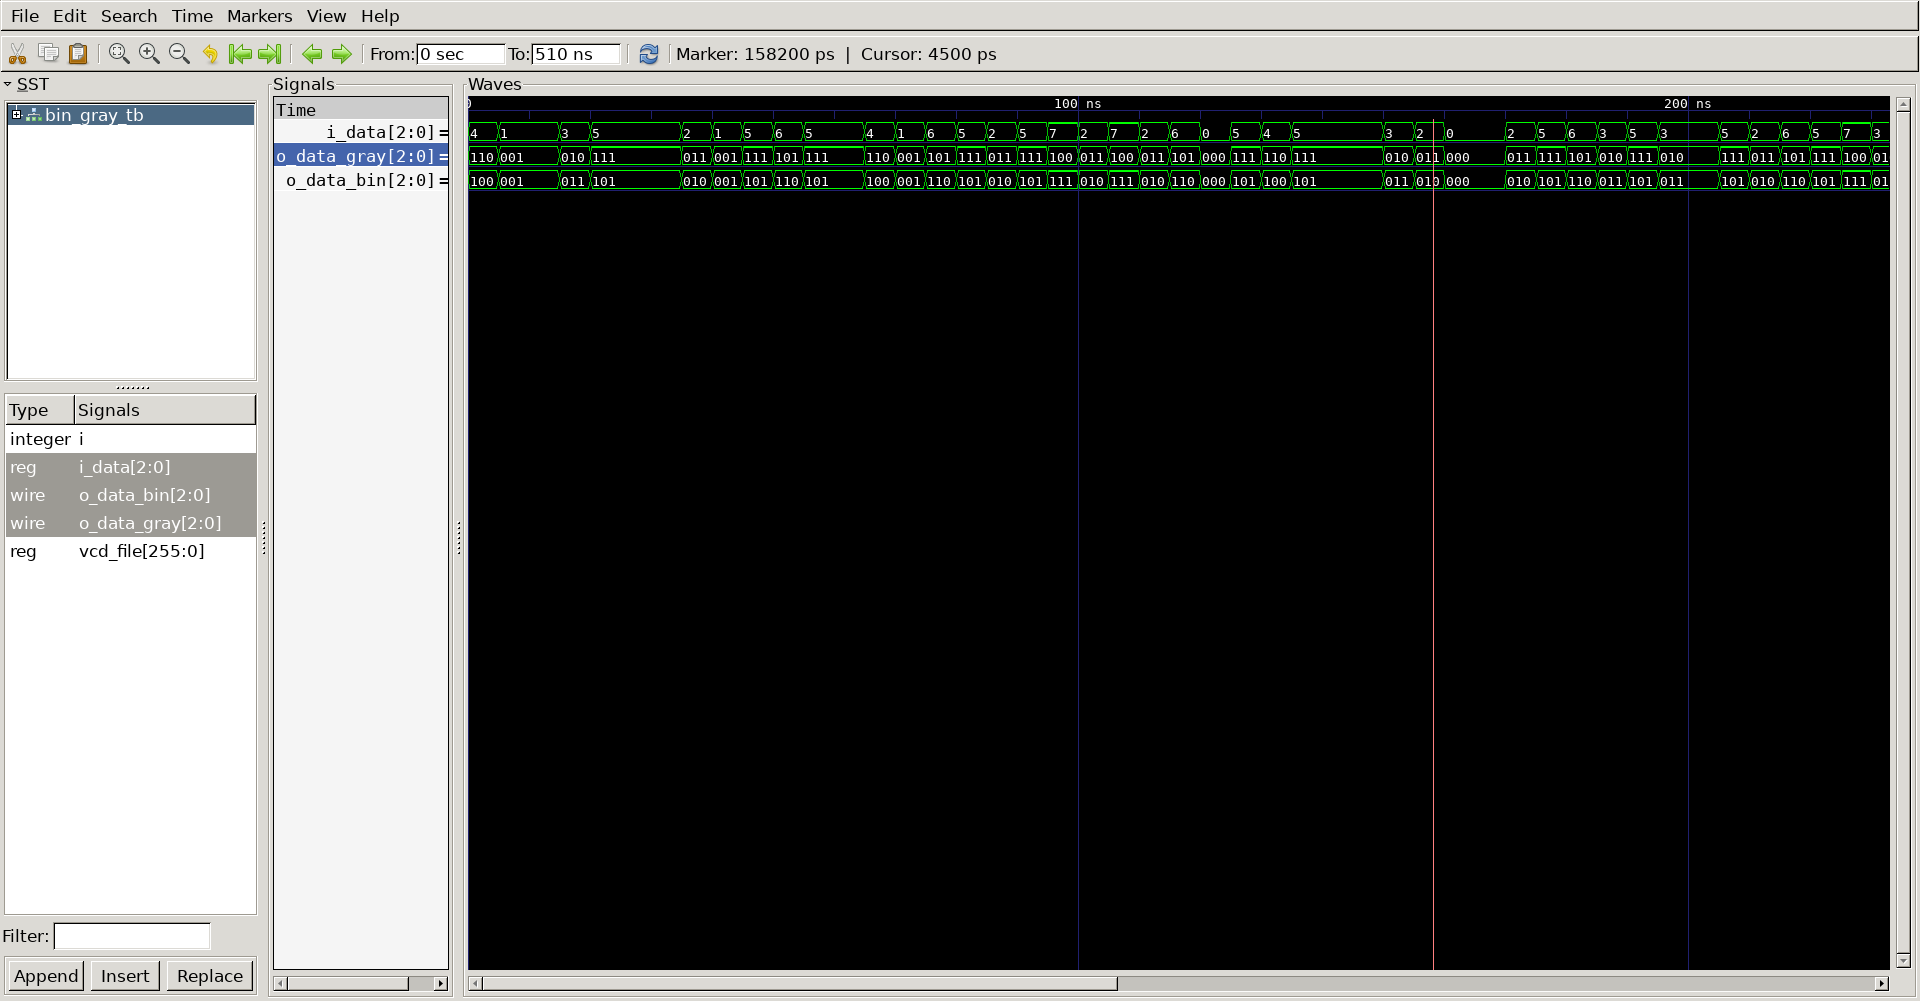
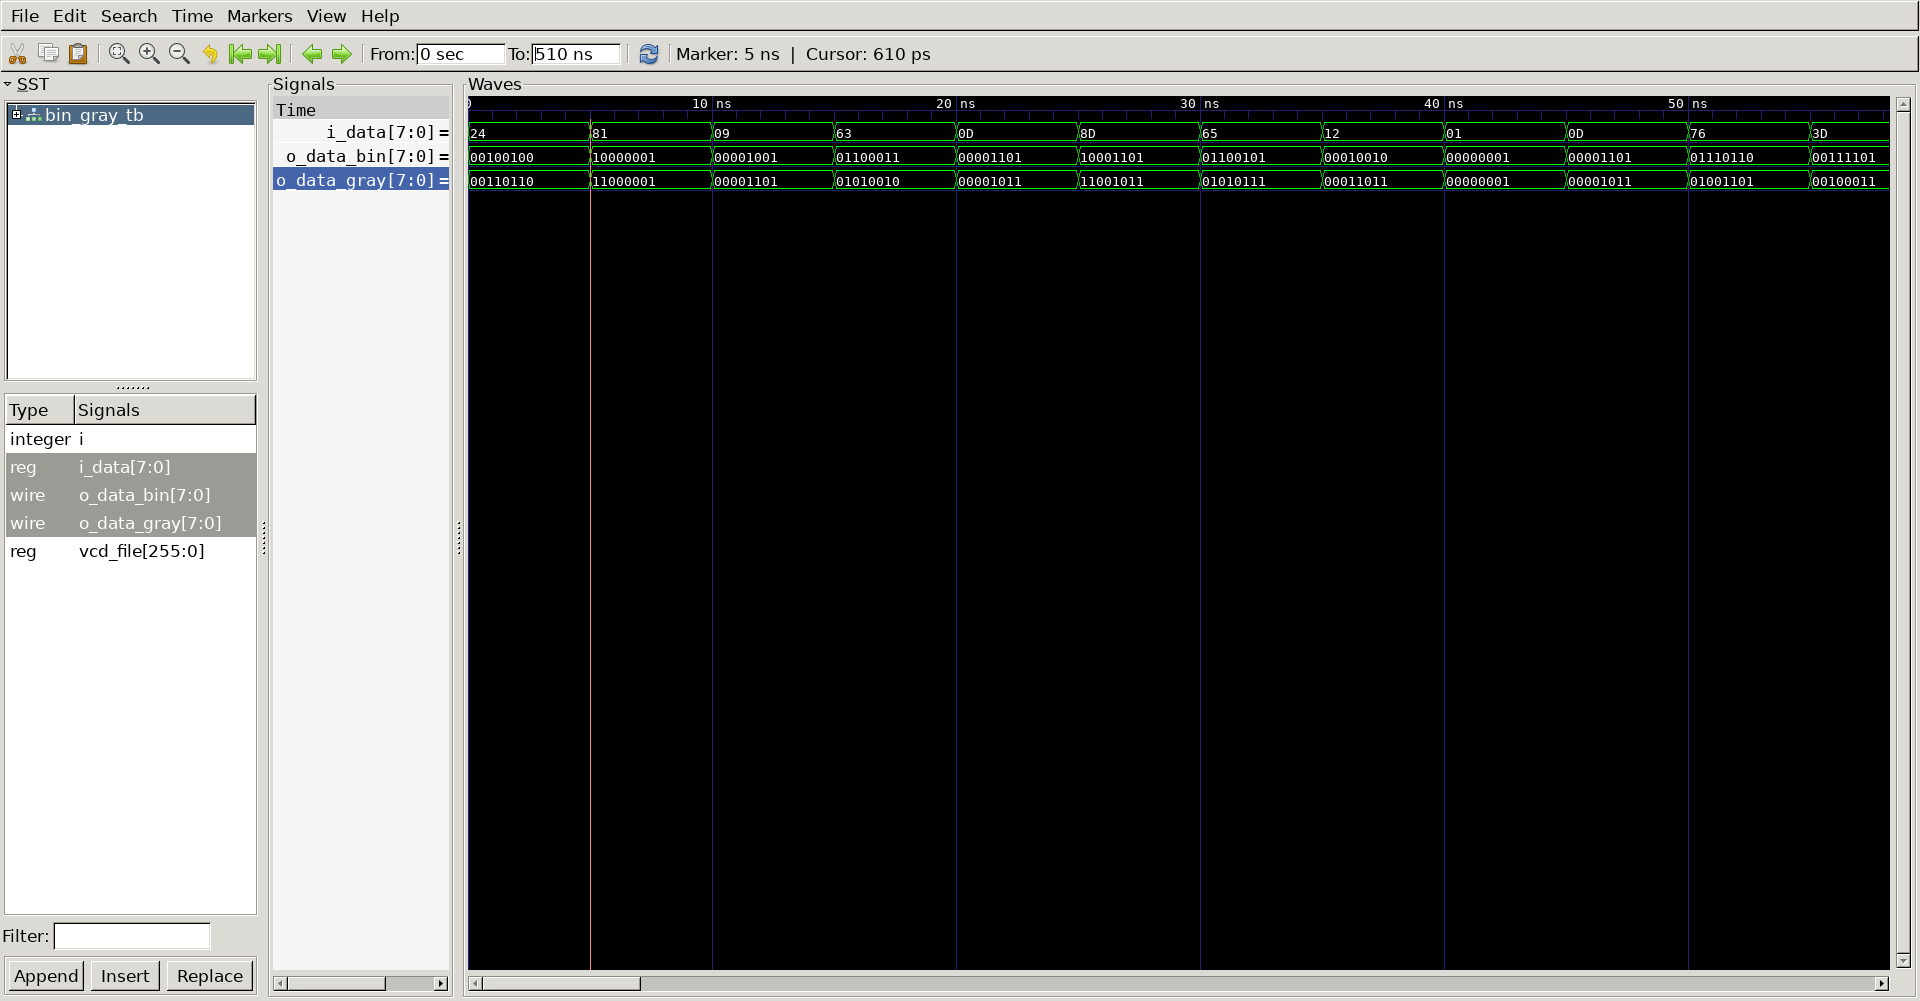
comment

diff --git a/project_0/00_gray_code_converter/README.md b/project_0/00_gray_code_converter/README.md
@@ -60,22 +60,27 @@ endmodule
 
 ### Testbench
 ```verilog
-	
+
 `define		CLKFREQ		100
 `define		SIMCYCLE	100
 
 `include "bin_to_gray.v"
 `include "gray_to_bin.v"
 
-module test;
+module bin_gray_tb;
 //---------------------------------------------------
 // DUT Signals & Intanciate
 //---------------------------------------------------
-	reg		[2:0]	i_data;
-	wire	[2:0]	o_data_bin;
-	wire	[2:0]	o_data_gray;
+	parameter 	BW_DATA = 8;
+
+	reg			[BW_DATA-1:0]	i_data;
+	wire		[BW_DATA-1:0]	o_data_bin;
+	wire		[BW_DATA-1:0]	o_data_gray;
 
 	bin_to_gray
+	#(
+		.BW_DATA			(BW_DATA			)
+	)
 	u_bin_to_gray(
 		.i_data				(i_data				),
 		.o_data				(o_data_gray		)
@@ -83,10 +88,16 @@ module test;
 
 
 	gray_to_bin
-	u_gray_to_bin(
+	#(
+		.BW_DATA			(BW_DATA			)
+	)
+	u_gray_to_bin
+	(
 		.i_data				(o_data_gray		),
 		.o_data				(o_data_bin			)
 	);
+
+
 
 
 //---------------------------------------------------
@@ -112,15 +123,24 @@ end
 			$dumpfile(vcd_file);
 			$dumpvars;
 		end else begin
-			$dumpfile("bin_to_gray_tb.vcd");
+			$dumpfile("bin_gray_tb.vcd");
 			$dumpvars;
 		end
 	end
 
 endmodule
+
+
 ```
 ## Simulation Result
--	@ first
-	- idata = 4 	-> gray = 110
-	- gray  = 110 	-> bin  = 100
+-	@ 0ns
+	- idata = 8'h24(8'b0010_0100) 	-> gray = 0011_0110
+	- gray  = 0011_0110 	-> bin  = 0010_0100
+	@5ns
+	- idata = 8'h81(8'b1000_0001) 	-> gray = 1100_0001
+	- gray  = 1100_0001 	-> bin  = 1000_0001
+	@10ns
+	- idata = 8'h09(8'b0000_1001) 	-> gray = 0000_1101
+	- gray  = 0000_1101 	-> bin  = 0000_1001
 
+![Waveform0] (./test_waveform.png)
